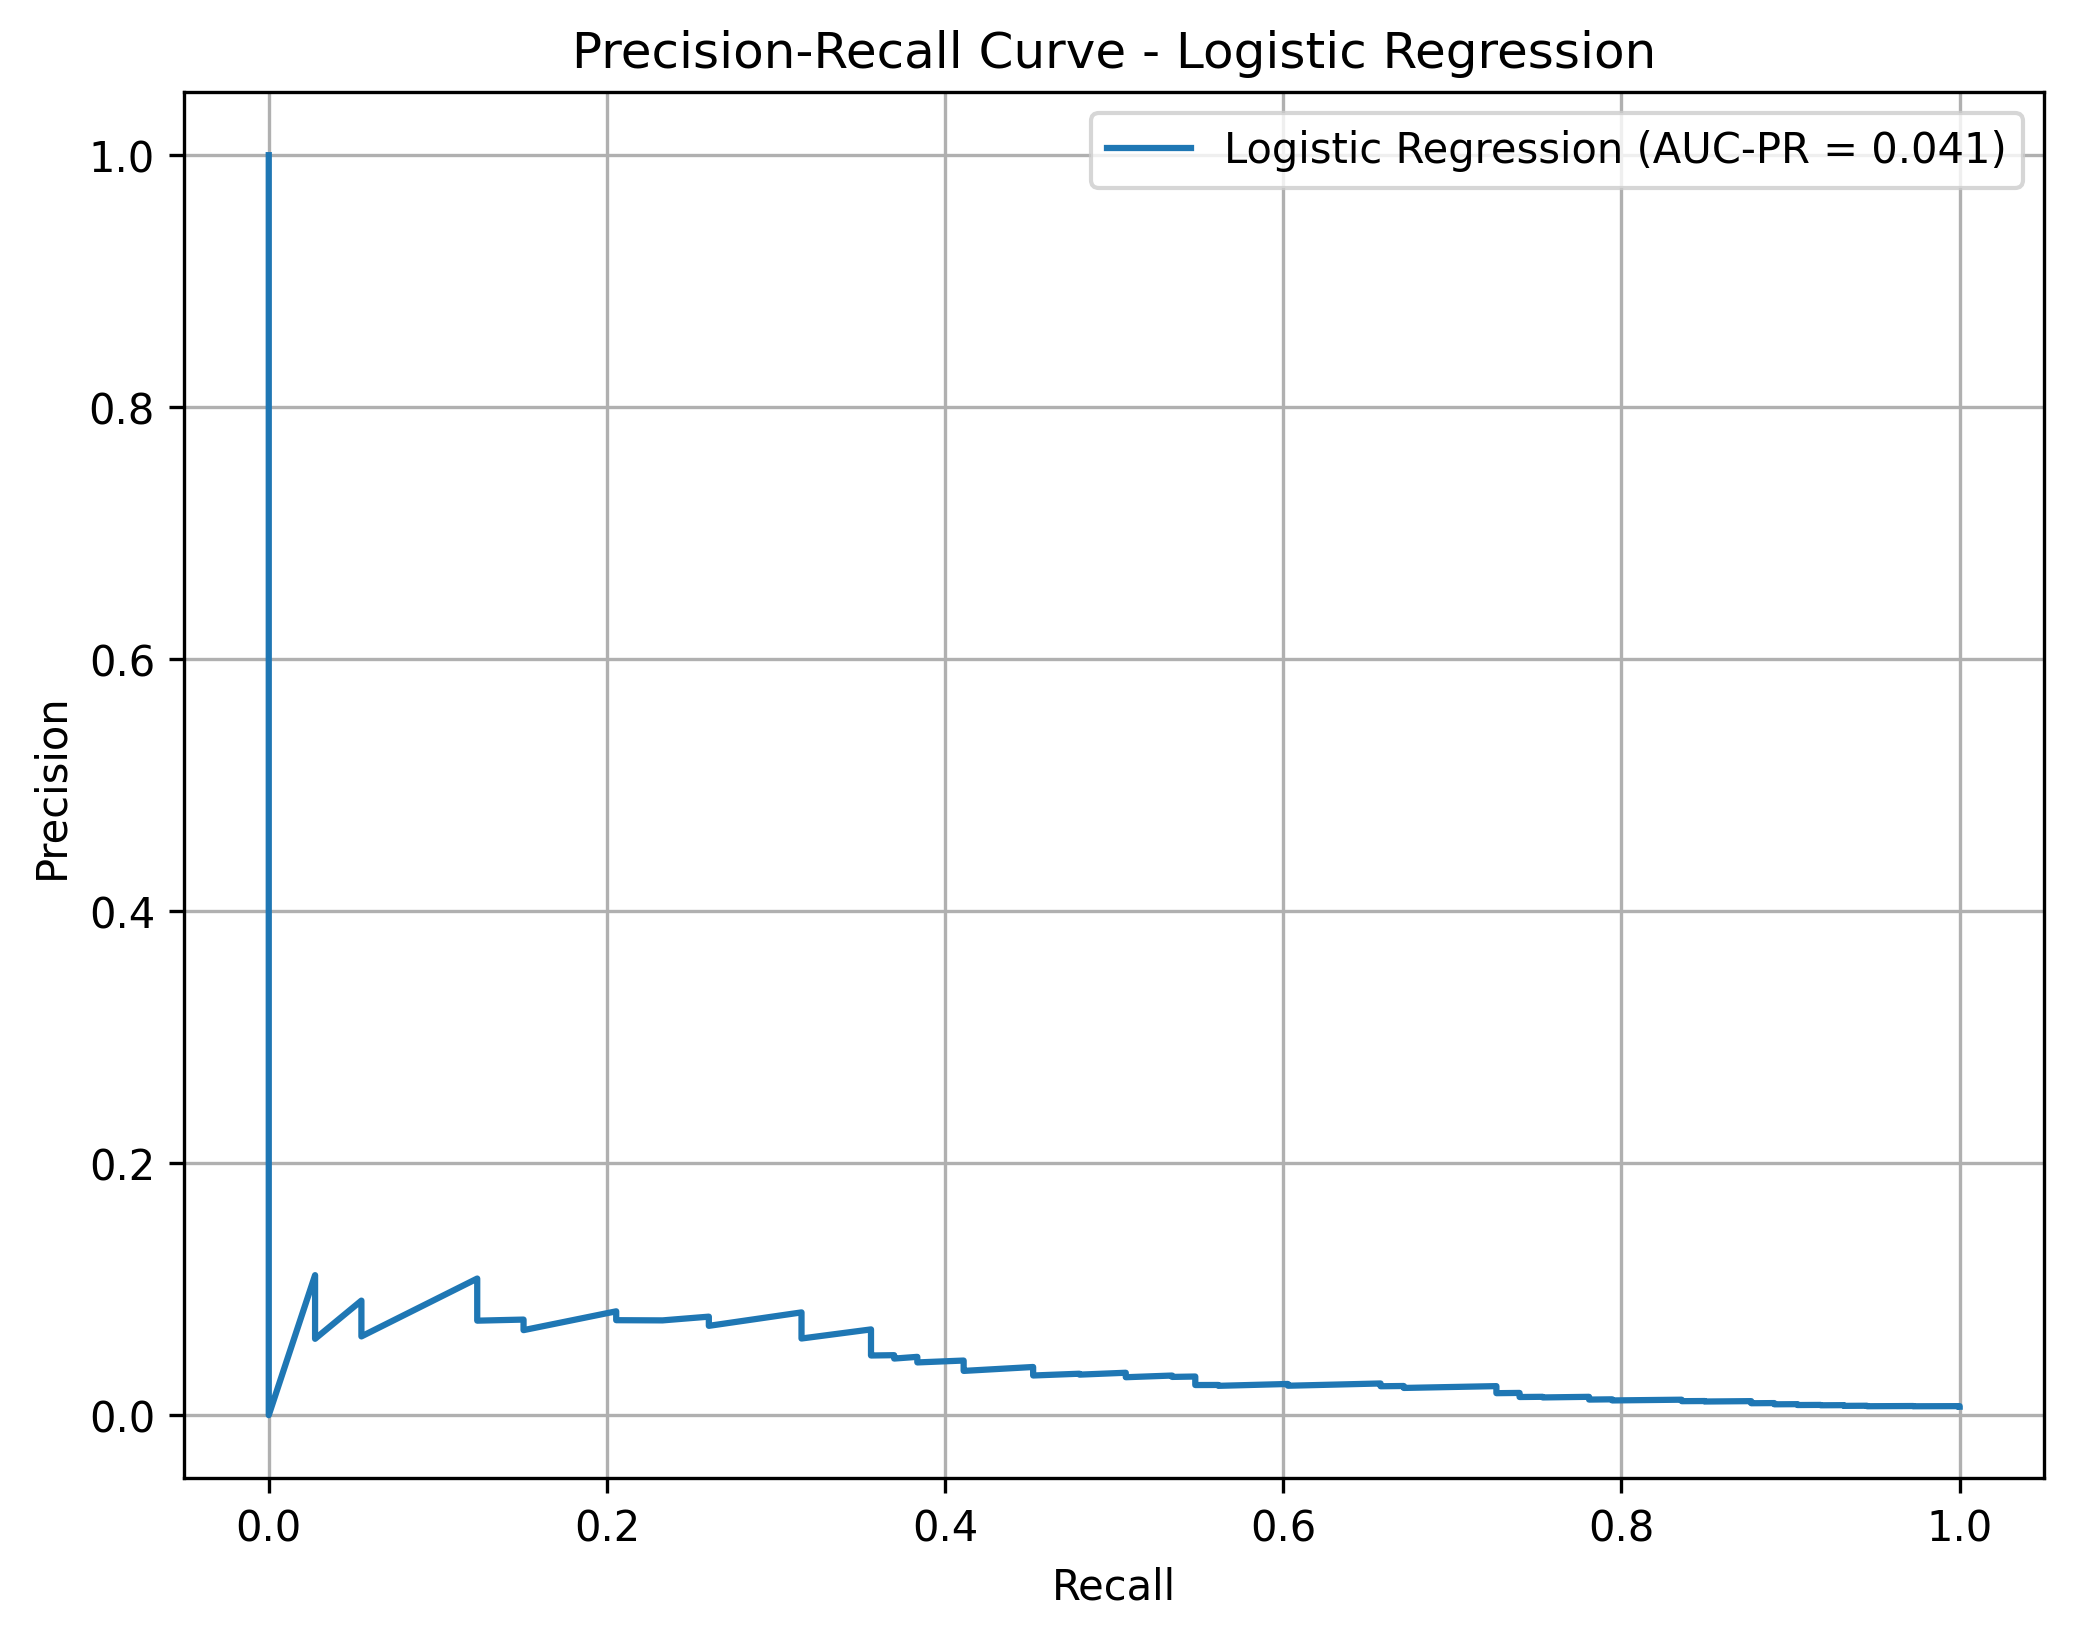
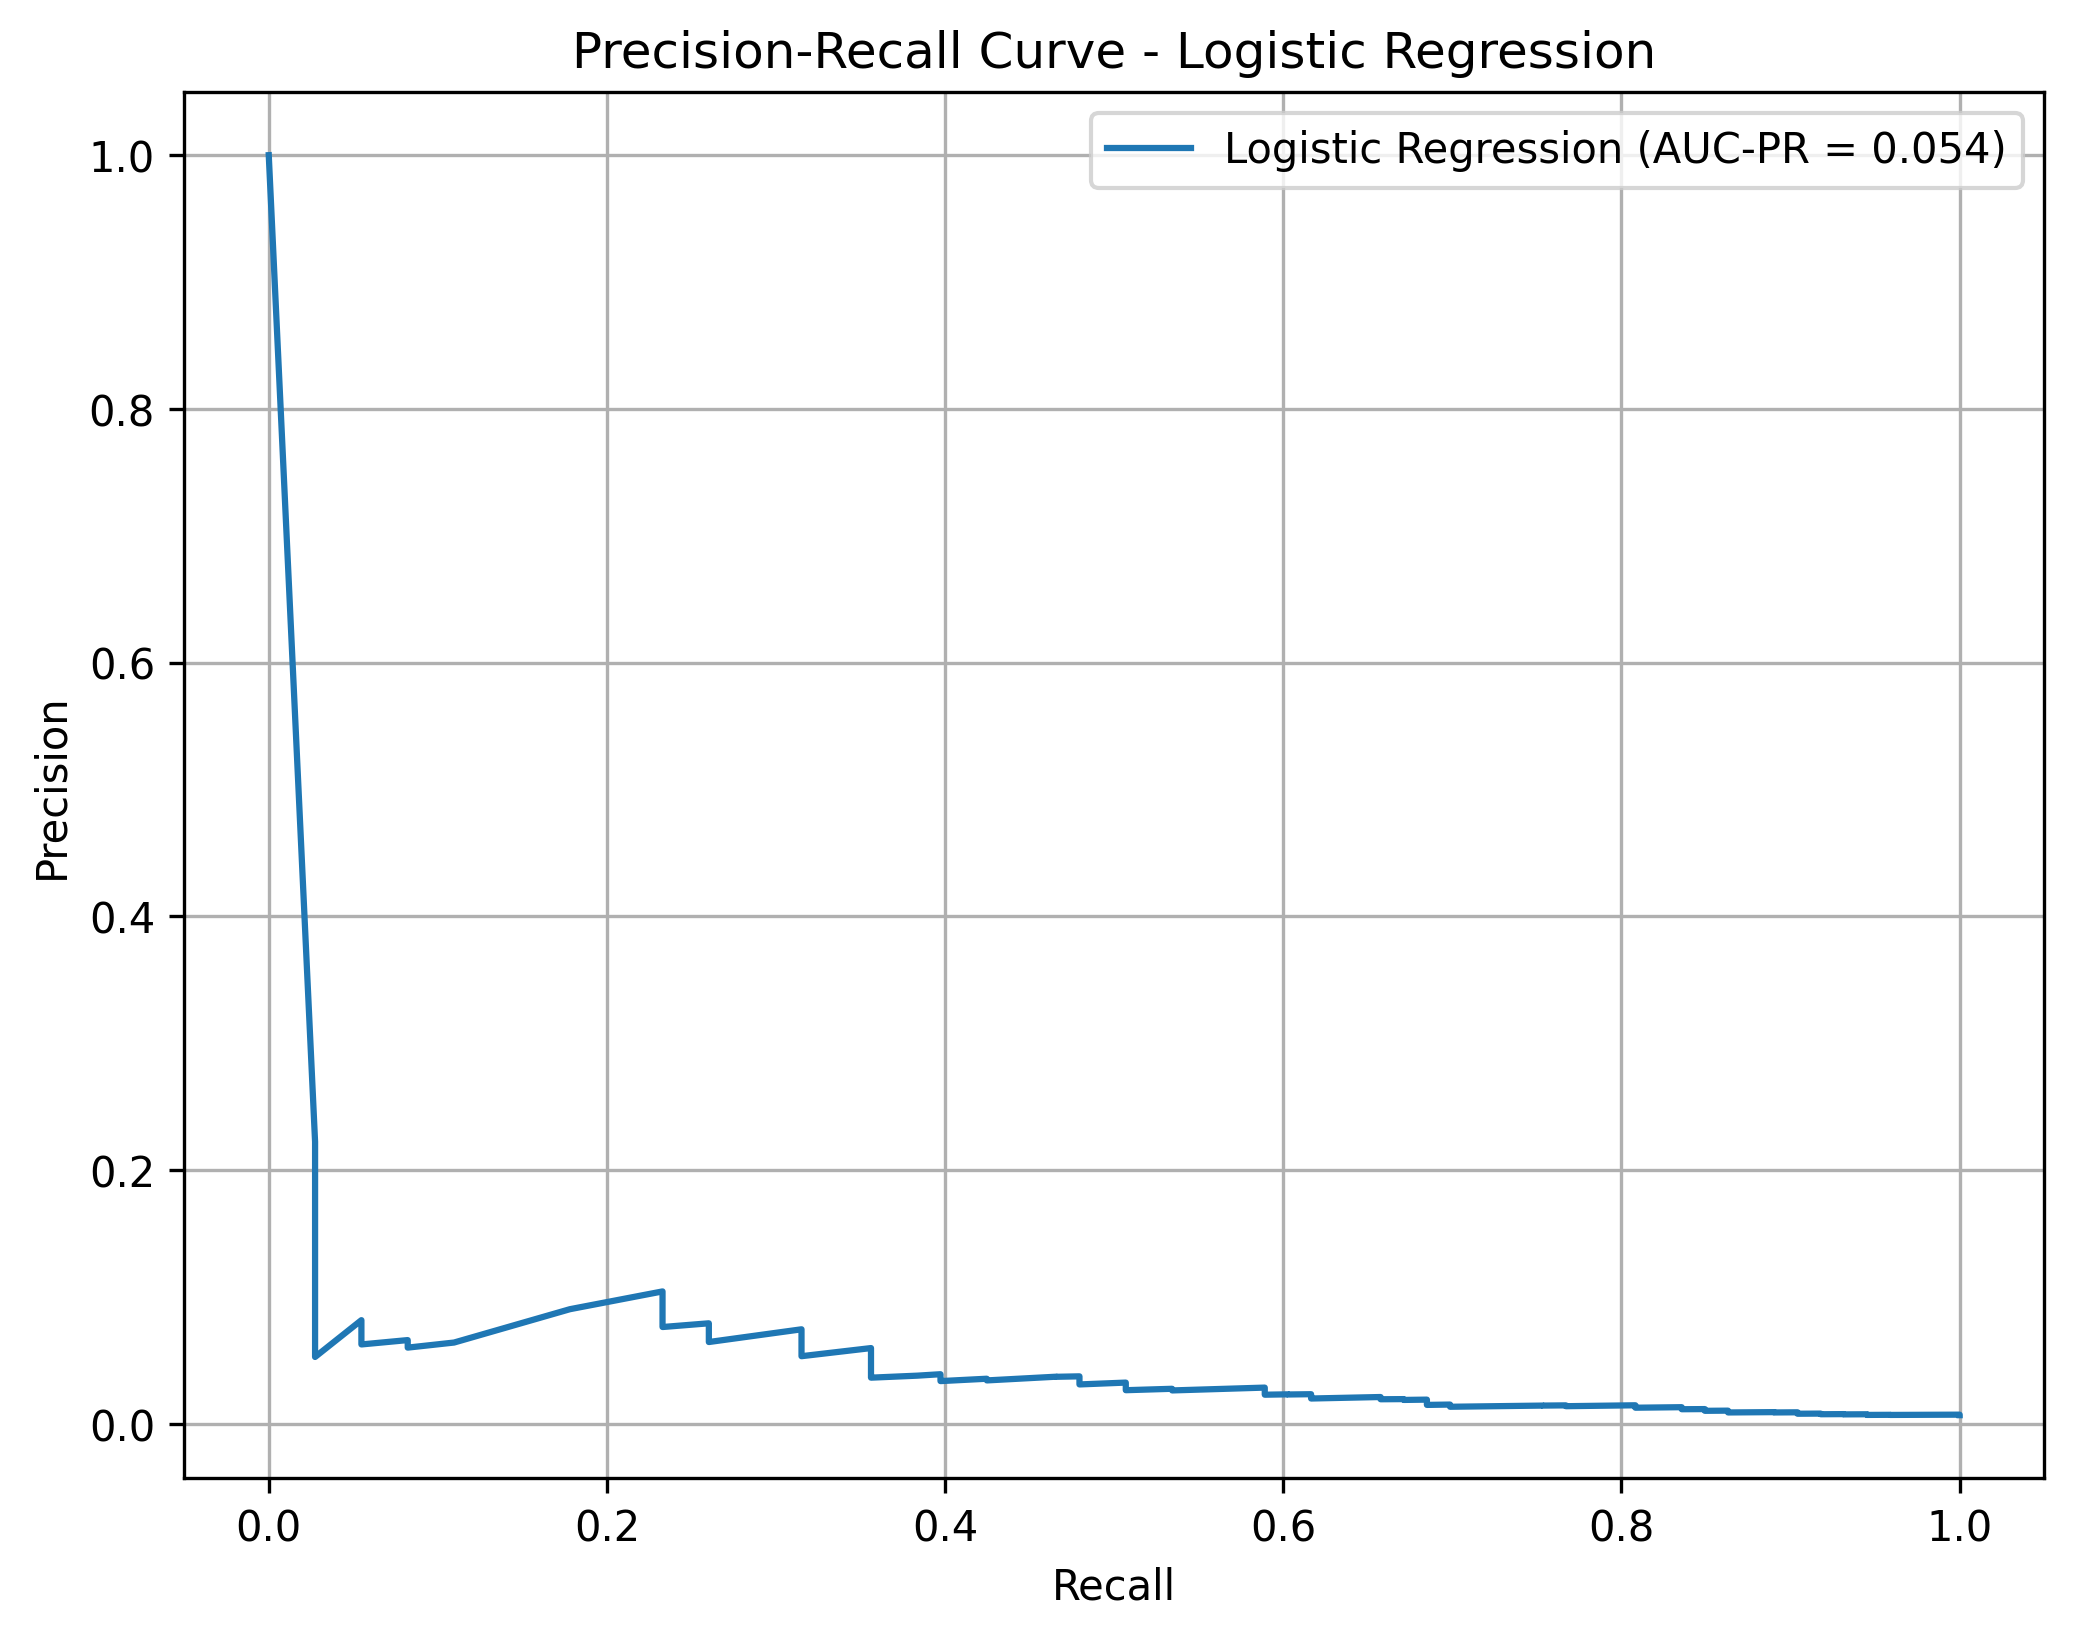
Updated Parinandi (2020).

Changed region(s): [[0.0617, 0.1245, 0.9875, 0.8718], [0.9257, 0.0623, 0.9566, 0.0934]]

diff --git a/ml_fengineer/parinandi_counter.py b/ml_fengineer/parinandi_counter.py
@@ -23,7 +23,7 @@ parinandi_2020_full = pd.read_stata(r"data/parinandi2020.dta")
 covariates = [
     "adagovideology", "citizenideology", "medianivoteshare", "partydecline", "squirescore",
     "incunemp", "pctpercapincome", "percenturban", "ugovd", "percentfossilprod", "renergyprice11",
-    "deregulated", "geoneighborlag", "ideoneighborlag", "premulation1"
+    "deregulated", "geoneighborlag", "ideoneighborlag", "premulation1", "year", "featureyear"
 ]
 
 parinandi_2020 = parinandi_2020_full[["oneemulation"] + covariates].dropna()
@@ -70,7 +70,7 @@ results['logit']['ap_score'].append(average_precision_score(y_test, logit_scores
 
 # Generate classification report for logistic regression
 logit_report = classification_report(y_test, logit_pred)
-with open('figures/parinandi2020/logit_no_featureyear.txt', 'w') as f:
+with open('figures/parinandi2020/logit_counter.txt', 'w') as f:
     f.write("Logistic Regression Classification Report\n")
     f.write("=" * 50 + "\n")
     f.write(logit_report)
@@ -86,7 +86,7 @@ plt.ylabel('Precision')
 plt.title('Precision-Recall Curve - Logistic Regression')
 plt.legend()
 plt.grid(True)
-plt.savefig('figures/parinandi2020/logit_no_featureyear_pr_curve.png', dpi = 300, bbox_inches = 'tight')
+plt.savefig('figures/parinandi2020/logit_counter_pr_curve.png', dpi = 300, bbox_inches = 'tight')
 plt.close()
 
 # Random Forest
@@ -115,7 +115,7 @@ results['rf']['ap_score'].append(average_precision_score(y_test, rf_scores))
 
 # Generate classification report for Random Forest
 rf_report = classification_report(y_test, rf_pred)
-with open('figures/parinandi2020/rf_no_featureyear.txt', 'w') as f:
+with open('figures/parinandi2020/rf_counter.txt', 'w') as f:
     f.write("Random Forest Classification Report\n")
     f.write("=" * 50 + "\n")
     f.write(rf_report)
@@ -131,7 +131,7 @@ plt.ylabel('Precision')
 plt.title('Precision-Recall Curve - Random Forest')
 plt.legend()
 plt.grid(True)
-plt.savefig('figures/parinandi2020/rf_no_featureyear_pr_curve.png', dpi = 300, bbox_inches = 'tight')
+plt.savefig('figures/parinandi2020/rf_counter_pr_curve.png', dpi = 300, bbox_inches = 'tight')
 plt.close()
 
 # XGBoost
@@ -166,7 +166,7 @@ results['xgb']['ap_score'].append(average_precision_score(y_test, xgb_scores))
 
 # Generate classification report for XGBoost
 xgb_report = classification_report(y_test, xgb_pred)
-with open('figures/parinandi2020/xgb_no_featureyear.txt', 'w') as f:
+with open('figures/parinandi2020/xgb_counter.txt', 'w') as f:
     f.write("XGBoost Classification Report\n")
     f.write("=" * 50 + "\n")
     f.write(xgb_report)
@@ -182,11 +182,11 @@ plt.ylabel('Precision')
 plt.title('Precision-Recall Curve - XGBoost')
 plt.legend()
 plt.grid(True)
-plt.savefig('figures/parinandi2020/xgb_no_featureyear.png', dpi = 300, bbox_inches = 'tight')
+plt.savefig('figures/parinandi2020/xgb_counter.png', dpi = 300, bbox_inches = 'tight')
 plt.close()
 
 # Save Results
-with open('figures/parinandi2020/parinandi_no_featureyear_results.txt', 'w') as f:
+with open('figures/parinandi2020/parinandi_counter_results.txt', 'w') as f:
     f.write("Model Performance Results\n")
     f.write("=" * 40 + "\n\n")
     
